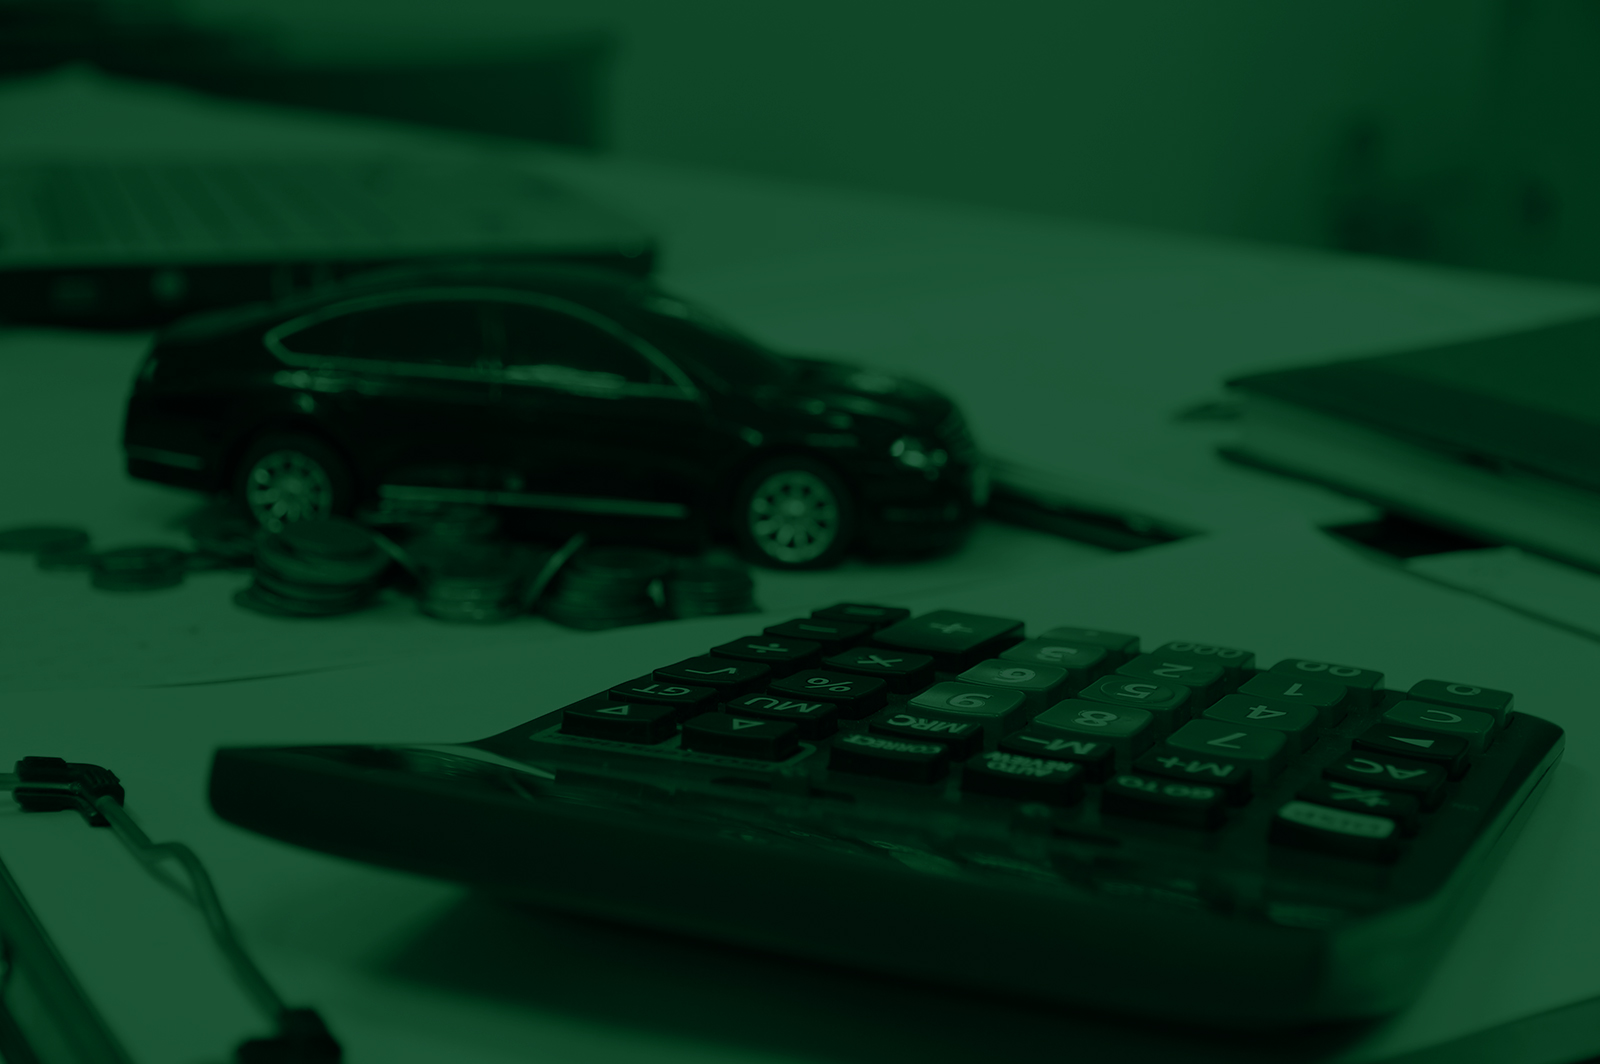
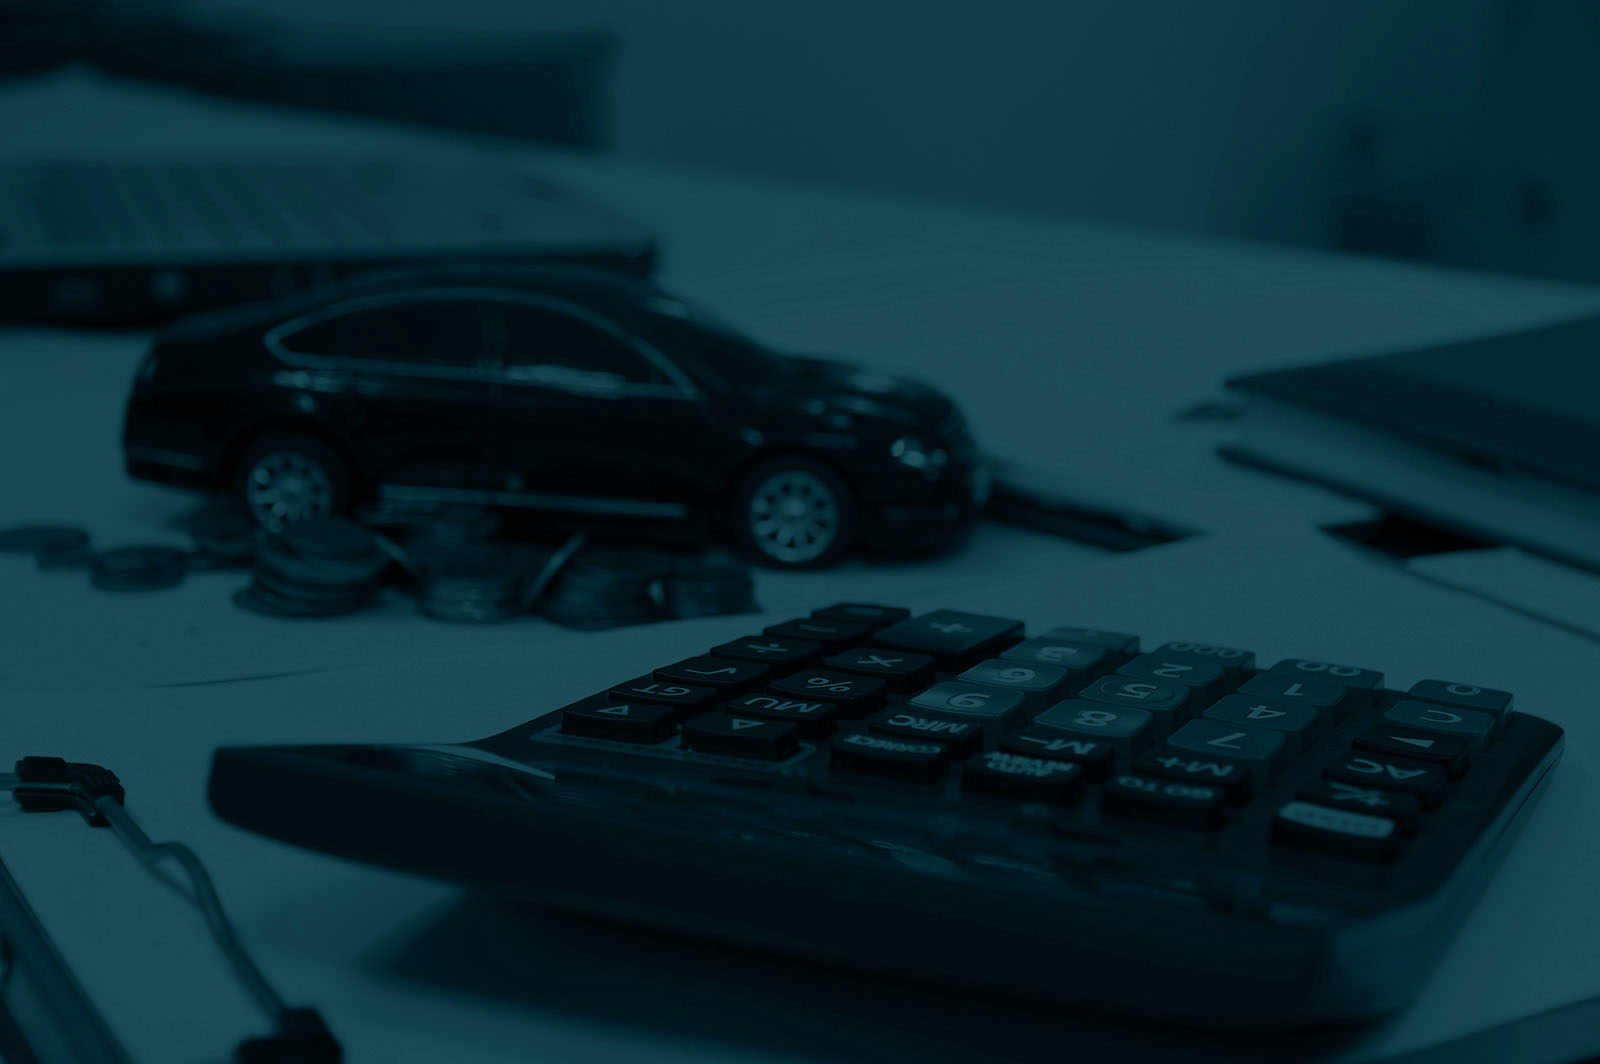
Blues

diff --git a/carprice/index.html b/carprice/index.html
@@ -137,6 +137,10 @@
                     <p class="interest-text">Мы самостоятельно вывезем ваши транспортные средства</p>
                 </li>
                 <li class="interest-list-item interest-list-item_7 col-12 col-md-6 col-lg-3">
+                    <h3 class="interest-subtitle">Логистика</h3>
+                    <p class="interest-text">Мы самостоятельно вывезем ваши транспортные средства</p>
+                </li>
+                <li class="interest-list-item interest-list-item_8 col-12 col-md-6 col-lg-3">
                     <h3 class="interest-subtitle">Надежность</h3>
                     <p class="interest-text">Мы нацелены только на долгосрочные партнерские отношения</p>
                 </li>
@@ -153,7 +157,49 @@
         <div class="container">
             <h2 class="section-title">Региональное присутствие</h2>
             <p class="section-subtitle">Наша логистика позволяет выкупить авто в любом городе России!</p>
-            div
+            <div class="locations">
+                <h3 class="locations-title"><span>85</span> офисов в <span>64</span> городах России</h3>
+                <div class="row">
+                    <ul class="col-6 col-lg-3 locations-list">
+                        <li class="locations-list-item">Москва</li>
+                        <li class="locations-list-item">Пермь</li>
+                        <li class="locations-list-item">Екатеринбург</li>
+                        <li class="locations-list-item">Ногинск</li>
+                        <li class="locations-list-item">Омск</li>
+                        <li class="locations-list-item">Магнитогорск</li>
+                        <li class="locations-list-item">Уфа</li>
+                    </ul>
+                    <ul class="col-6 col-lg-3 locations-list">
+                        <li class="locations-list-item">Тюмень</li>
+                        <li class="locations-list-item">Котельники</li>
+                        <li class="locations-list-item">Самара</li>
+                        <li class="locations-list-item">Новосибирск</li>
+                    </ul>
+                    <ul class="col-6 col-lg-3 locations-list">
+                        <li class="locations-list-item">Тюмень</li>
+                        <li class="locations-list-item">Котельники</li>
+                        <li class="locations-list-item">Самара</li>
+                        <li class="locations-list-item">Новосибирск</li>
+                    </ul>
+                    <ul class="col-6 col-lg-3 locations-list">
+                        <li class="locations-list-item">Тюмень</li>
+                        <li class="locations-list-item">Котельники</li>
+                        <li class="locations-list-item">Самара</li>
+                        <li class="locations-list-item">Новосибирск</li>
+                    </ul>
+                </div>
+            </div>
+        </div>
+    </section>
+    <section class="ad tender section_paralax">
+        <div class="container">
+            <h2 class="ad-title">Если Ваш менеджер проводит тендер, убедитесь,<br> что в нем участвует Globaltruck</h2>
+            <a href="#form" class="btn">Оставить заявку</a>
+        </div>
+    </section>
+    <section class="testimonial" id="testimonial">
+        <div class="container">
+            <div class="row"></div>
         </div>
     </section>
 </body>

diff --git a/carprice/css/main.css b/carprice/css/main.css
@@ -1,5 +1,5 @@
 :root {
-    --primary: #389244;
+    --primary: #004d7f;
 }
 
 body {
@@ -327,35 +327,91 @@ ol {
     padding-bottom: 30px;
 }
 
-.interest-list-item::before{
+.interest-list-item::before {
     display: block;
     height: 100px;
     width: 100px;
     margin-bottom: 30px;
 }
 
-.interest-list-item_1::before{
+.interest-list-item_1::before {
     content: url(../img/interest-list-item_1.png)
 }
-.interest-list-item_2::before{
+
+.interest-list-item_2::before {
     content: url(../img/interest-list-item_2.png)
 }
-.interest-list-item_3::before{
+
+.interest-list-item_3::before {
     content: url(../img/interest-list-item_3.png)
 }
-.interest-list-item_4::before{
+
+.interest-list-item_4::before {
     content: url(../img/interest-list-item_4.png)
 }
-.interest-list-item_5::before{
+
+.interest-list-item_5::before {
     content: url(../img/interest-list-item_5.png)
 }
-.interest-list-item_6::before{
+
+.interest-list-item_6::before {
     content: url(../img/interest-list-item_6.png)
 }
-.interest-list-item_7::before{
+
+.interest-list-item_7::before {
     content: url(../img/interest-list-item_7.png)
 }
 
-.guarantee{
+.interest-list-item_8::before {
+    content: url(../img/interest-list-item_8.png)
+}
+
+.guarantee {
     background-image: url(../img/section_guarantee-bg.jpg);
+}
+
+.area .section-title {
+    margin-bottom: 30px;
+}
+
+.section-subtitle {
+    margin-bottom: 120px;
+    font-size: 26px;
+    line-height: 1.15;
+    font-weight: 400;
+    text-align: center;
+}
+
+.area {
+    padding-top: 60px;
+    padding-bottom: 15px;
+}
+
+.locations {
+    padding-bottom: 80px;
+    background-size: contain;
+    background-repeat: no-repeat;
+    background-position: center right;
+    background-image: url(../img/mother.png);
+}
+
+.locations-title {
+    font-size: 32px;
+    line-height: 44px;
+    margin-bottom: 90px;
+}
+
+.locations-title span {
+    color: var(--primary);
+}
+
+.locations-list-item {
+    font-size: 20px;
+    text-transform: uppercase;
+    line-height: 1.8;
+    font-weight: 500;
+}
+
+.tender{
+    background-image: url(../img/section_tender-bg.jpg);
 }
